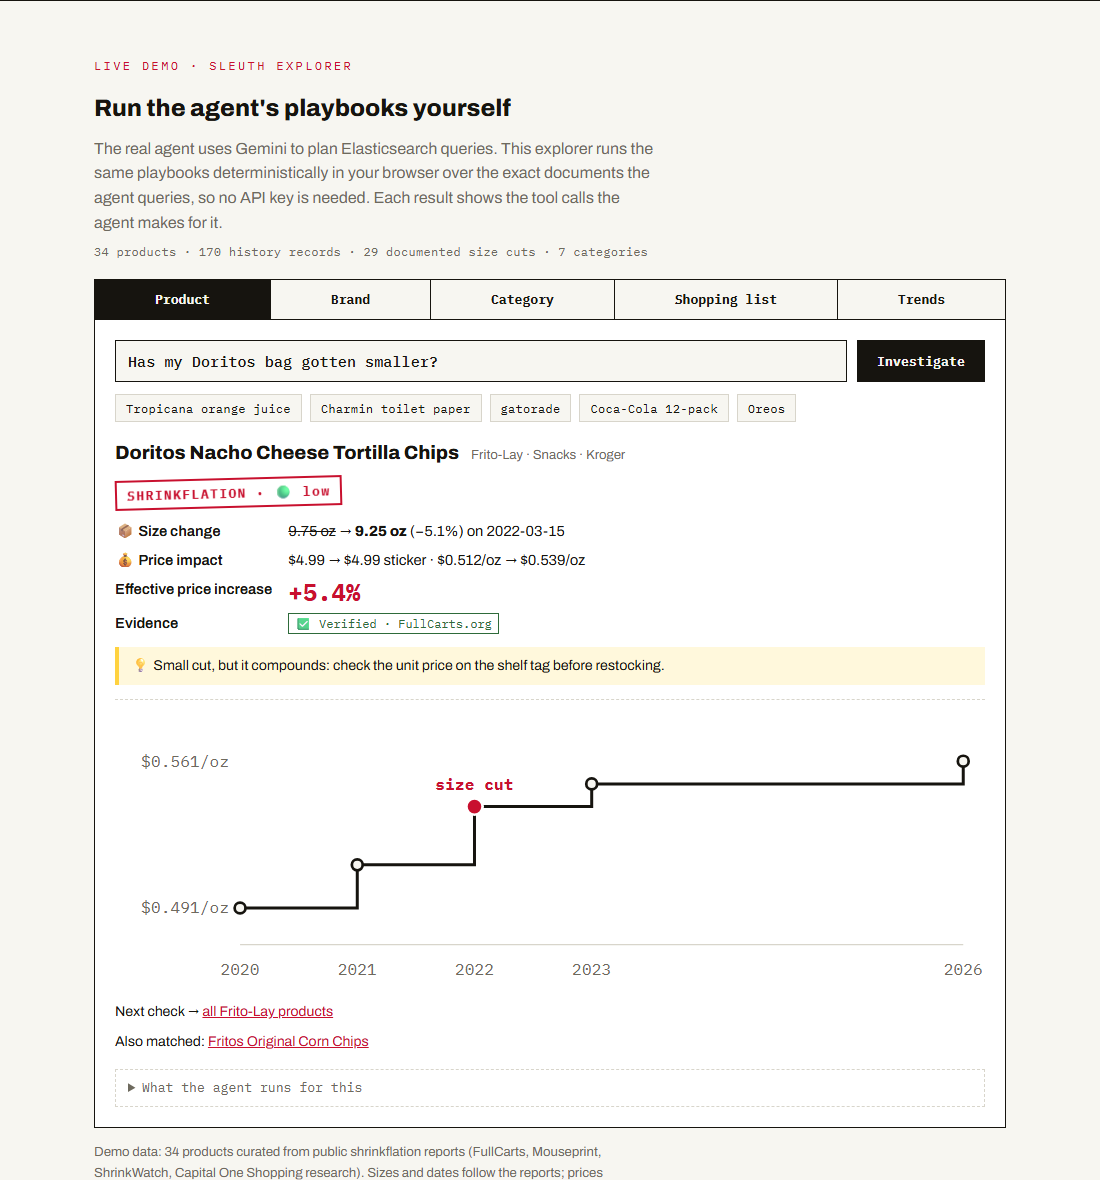
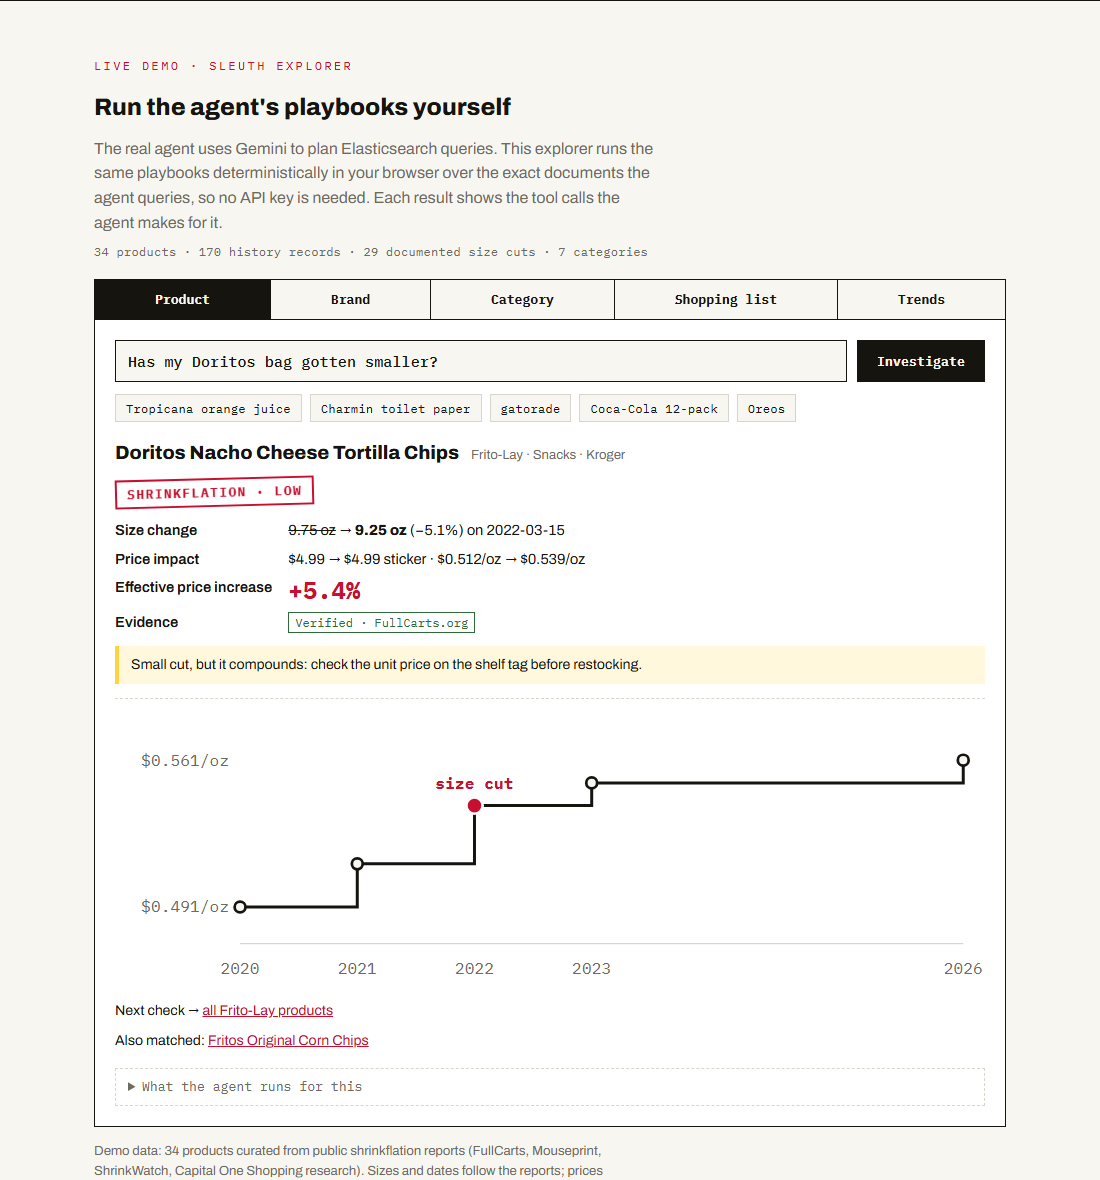
drop emoji from the agent's answers and the demo, refresh screenshot

diff --git a/frontend/explorer.js b/frontend/explorer.js
@@ -9,7 +9,7 @@
     ("has have my the a an of is did does gotten get got smaller shrunk shrink bag box pack " +
       "check these show me all from what are which worst this year with it any how much").split(" "),
   );
-  const SEV = { low: "🟢 low", medium: "🟡 medium", high: "🔴 high" };
+  const sev = (level) => `<span class="sev-${level}">${level}</span>`;
   const TIPS = {
     high: "Compare the shelf tag's unit price (per oz / per count), not the sticker price. Also check the store brand, which often kept the old size.",
     medium: "Buy by unit price. Larger packs and store brands frequently beat the shrunk name-brand pack.",
@@ -25,7 +25,7 @@
   const pct = (n) => `${n > 0 ? "+" : ""}${n.toFixed(1)}%`;
   const avg = (xs) => (xs.length ? xs.reduce((a, b) => a + b, 0) / xs.length : 0);
   const verifiedBadge = (a) =>
-    a.verified ? `<span class="badge ok">✅ Verified · ${esc(a.source)}</span>`
+    a.verified ? `<span class="badge ok">Verified · ${esc(a.source)}</span>`
                : `<span class="badge warn">Unverified · ${esc(a.source)}</span>`;
 
   let DB = null;
@@ -114,24 +114,24 @@
     if (a) {
       const oldPpu = a.old_price / a.old_size, newPpu = a.new_price / a.new_size;
       findings = `
-        <div class="verdict bad">SHRINKFLATION · ${SEV[a.severity]}</div>
+        <div class="verdict bad">SHRINKFLATION · ${a.severity.toUpperCase()}</div>
         <dl class="facts">
-          <dt>📦 Size change</dt><dd><s>${a.old_size} ${esc(unit)}</s> → <b>${a.new_size} ${esc(unit)}</b> (−${a.shrinkage_pct.toFixed(1)}%) on ${esc(a.date_changed)}</dd>
-          <dt>💰 Price impact</dt><dd>${money(a.old_price)} → ${money(a.new_price)} sticker · ${ppu(oldPpu, unit)} → ${ppu(newPpu, unit)}</dd>
+          <dt>Size change</dt><dd><s>${a.old_size} ${esc(unit)}</s> → <b>${a.new_size} ${esc(unit)}</b> (−${a.shrinkage_pct.toFixed(1)}%) on ${esc(a.date_changed)}</dd>
+          <dt>Price impact</dt><dd>${money(a.old_price)} → ${money(a.new_price)} sticker · ${ppu(oldPpu, unit)} → ${ppu(newPpu, unit)}</dd>
           <dt>Effective price increase</dt><dd class="big">${pct(a.effective_price_increase_pct)}</dd>
           <dt>Evidence</dt><dd>${verifiedBadge(a)}</dd>
         </dl>
-        <p class="tip">💡 ${TIPS[a.severity]}</p>`;
+        <p class="tip">${TIPS[a.severity]}</p>`;
     } else {
       const first = hist[0], last = hist[hist.length - 1];
       const drift = ((last.price_per_unit - first.price_per_unit) / first.price_per_unit) * 100;
       findings = `
         <div class="verdict good">NO SIZE CHANGE ON RECORD</div>
         <dl class="facts">
-          <dt>📦 Size</dt><dd>${p.current_size} ${esc(unit)} since ${esc(first.record_date)}</dd>
-          <dt>💰 Price-per-unit drift</dt><dd>${ppu(first.price_per_unit, unit)} → ${ppu(last.price_per_unit, unit)} (${pct(drift)}), an ordinary price change with no size cut</dd>
+          <dt>Size</dt><dd>${p.current_size} ${esc(unit)} since ${esc(first.record_date)}</dd>
+          <dt>Price-per-unit drift</dt><dd>${ppu(first.price_per_unit, unit)} → ${ppu(last.price_per_unit, unit)} (${pct(drift)}), an ordinary price change with no size cut</dd>
         </dl>
-        <p class="tip">💡 ${TIPS.none}</p>`;
+        <p class="tip">${TIPS.none}</p>`;
     }
     const alsoMatched = others.length
       ? `<p class="also">Also matched: ${others.map((o) => `<button class="link" data-pid="${esc(o.product_id)}">${esc(o.name)}</button>`).join(" · ")}</p>` : "";
@@ -163,7 +163,7 @@ search  shrinkflation_alerts  {"term": {"product_id": "${p.product_id}"}}`)}`;
     const alerts = DB.shrinkflation_alerts.filter((a) => a.brand === brand)
       .sort((a, b) => b.shrinkage_pct - a.shrinkage_pct);
     const rows = alerts.map((a) => `<tr><td>${esc(a.product_name)}</td><td>${a.old_size} → ${a.new_size} ${esc(a.size_unit)}</td>
-      <td class="num">−${a.shrinkage_pct.toFixed(1)}%</td><td class="num">${pct(a.effective_price_increase_pct)}</td><td>${SEV[a.severity]}</td><td>${verifiedBadge(a)}</td></tr>`).join("");
+      <td class="num">−${a.shrinkage_pct.toFixed(1)}%</td><td class="num">${pct(a.effective_price_increase_pct)}</td><td>${sev(a.severity)}</td><td>${verifiedBadge(a)}</td></tr>`).join("");
     $("#out-brand").innerHTML = `
       <div class="kpis">
         <div><b>${prods.length}</b><span>products tracked</span></div>
@@ -211,12 +211,12 @@ esql  FROM shrinkflation_alerts | WHERE verified == true
       const p = search(item, 1)[0];
       if (!p) return `<tr><td>${esc(item)}</td><td colspan="4" class="dim">no data yet</td></tr>`;
       const a = alertOf(p.product_id);
-      if (!a) return `<tr><td>${esc(item)}</td><td>${esc(p.name)}</td><td>🟢 no change</td><td class="num">—</td><td class="num">$0.00</td></tr>`;
+      if (!a) return `<tr><td>${esc(item)}</td><td>${esc(p.name)}</td><td>no change</td><td class="num">—</td><td class="num">$0.00</td></tr>`;
       // Extra paid per purchase today vs. buying the same amount at the pre-shrink unit price.
       const extra = a.new_price - (a.old_price / a.old_size) * a.new_size;
       total += extra;
       shrunk++;
-      return `<tr><td>${esc(item)}</td><td>${esc(p.name)}</td><td>${SEV[a.severity]} −${a.shrinkage_pct.toFixed(1)}%</td>
+      return `<tr><td>${esc(item)}</td><td>${esc(p.name)}</td><td>−${a.shrinkage_pct.toFixed(1)}% · ${sev(a.severity)}</td>
         <td class="num">${pct(a.effective_price_increase_pct)}</td><td class="num">${money(extra)}</td></tr>`;
     }).join("");
     $("#out-list").innerHTML = `

diff --git a/frontend/index.html b/frontend/index.html
@@ -127,6 +127,7 @@
   .tip{margin-top:12px;font-size:.88rem;background:#FFF8DC;border-left:4px solid var(--tag);padding:8px 12px}
   .badge{font:.75rem 'IBM Plex Mono',monospace;padding:2px 6px;border:1px solid;white-space:nowrap}
   .badge.ok{color:#2E6B3A} .badge.warn{color:#8A5A00}
+  .sev-low{color:#2E6B3A} .sev-medium{color:#8A5A00} .sev-high{color:var(--stamp)}
   .chart{width:100%;height:auto;margin-top:14px;border-top:1px dashed var(--rule)}
   .chart .line{fill:none;stroke:var(--ink);stroke-width:2.2}
   .chart .pt{fill:var(--paper);stroke:var(--ink);stroke-width:2}
@@ -217,7 +218,7 @@
       <div class="rline"><span>SIZE</span><span><span class="old">9.75 OZ</span> 9.25 OZ</span></div>
       <div class="rline"><span>PRICE</span><span>$4.99 → $4.99</span></div>
       <div class="rline"><span>PER OZ</span><span><span class="old">$0.51</span> $0.54</span></div>
-      <div class="rline"><span>SOURCE</span><span>FULLCARTS ✅</span></div>
+      <div class="rline"><span>SOURCE</span><span>FULLCARTS</span></div>
       <div class="rline total"><span>HIDDEN INCREASE</span><span>+5.4%</span></div>
       <div class="stamp">SHRINKFLATION</div>
     </div>

diff --git a/agents/shrinkflation_sleuth/agent.py b/agents/shrinkflation_sleuth/agent.py
@@ -113,9 +113,9 @@ QUERY PLAYBOOKS. Follow these multi-step plans:
 RESPONSE FORMAT (every answer):
 - Always compute and show the EFFECTIVE PRICE INCREASE: the % change in
   price-per-unit, not just the sticker price.
-- Use clear labeled sections: 📦 Size Change, 💰 Price Impact,
-  Severity (🟢 low / 🟡 medium / 🔴 high), 💡 Consumer Tip.
-- Label alerts with verified=true as "✅ Verified" and cite the source field.
+- Use labeled sections: Size Change, Price Impact, Severity (low / medium /
+  high), Consumer Tip. No emoji.
+- Label alerts with verified=true as "Verified" and cite the source field.
 - Use markdown tables for multi-product results.
 - End by proactively suggesting ONE related check (e.g. the brand or
   category of the product just discussed).

diff --git a/docs/architecture.md b/docs/architecture.md
@@ -28,4 +28,4 @@ The prompt names the four indices and their main fields, so the agent doesn't di
 1. `search` products: `multi_match` on `name^3, brand^2, description`, `fuzziness: AUTO`. This gives the `product_id`.
 2. `esql`: `FROM product_history | WHERE product_id == "<id>" | EVAL ppu = price / size | SORT record_date ASC`
 3. `search` shrinkflation_alerts by `product_id` for the documented change and its source.
-4. Gemini writes the answer: size change, effective price increase, severity (🟢🟡🔴), a tip, and one suggested next check.
+4. Gemini writes the answer: size change, effective price increase, severity (low, medium or high), a tip, and one suggested next check.
